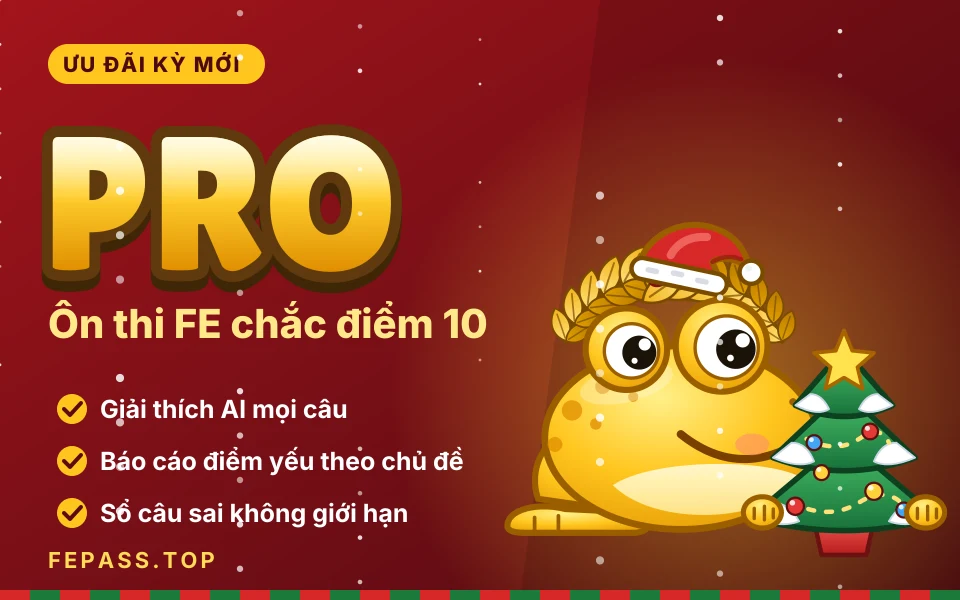
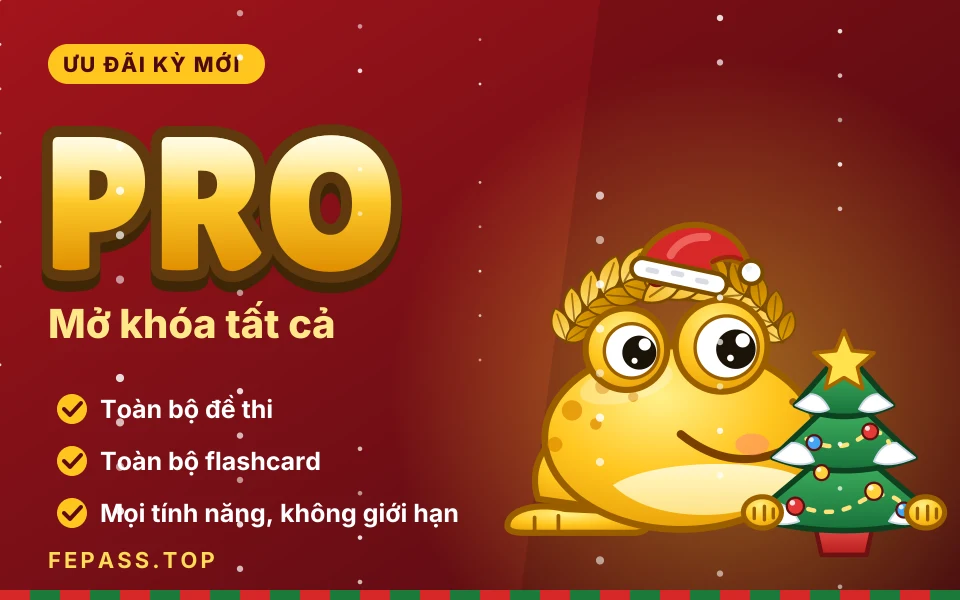
feat: update Pro poster copy to unlock everything

diff --git a/backend/scripts/gen-pro-poster.ts b/backend/scripts/gen-pro-poster.ts
@@ -14,7 +14,7 @@ const OUT = path.resolve(__dirname, "../../frontend/public/promo/pro-poster.webp
 
 async function main() {
   const f = await loadFonts();
-  const perks = ["Giải thích AI mọi câu", "Báo cáo điểm yếu theo chủ đề", "Sổ câu sai không giới hạn"];
+  const perks = ["Toàn bộ đề thi", "Toàn bộ flashcard", "Mọi tính năng, không giới hạn"];
   const ms = 3.4;
   const mx = W - MASCOT_W * ms - 14;
   const my = H - MASCOT_H * ms - 40;
@@ -37,7 +37,7 @@ async function main() {
   <rect x="48" y="44" width="${22 + pill.length * 15}" height="40" rx="20" fill="${COLOR.gold500}"/>
   <path d="${textD(f.extrabold, pill, 21, 48 + 15, 72, { spacing: 0.08 })}" fill="#4d0a10"/>
   ${wordmark(f.logo, "PRO", 190, 44, 270)}
-  <path d="${textD(f.extrabold, "Ôn thi FE chắc điểm 10", 40, 48, 338)}" fill="${COLOR.gold200}"/>
+  <path d="${textD(f.extrabold, "Mở khóa tất cả", 40, 48, 338)}" fill="${COLOR.gold200}"/>
   ${rows}
   <path d="${textD(f.bold, "FEPASS.TOP", 22, 48, 568, { spacing: 0.14 })}" fill="${COLOR.gold300}"/>
   <g transform="translate(${mx} ${my}) scale(${ms})">${mascotArt(f)}</g>

diff --git a/frontend/src/features/landing/components/LandingNoticePopup.tsx b/frontend/src/features/landing/components/LandingNoticePopup.tsx
@@ -30,7 +30,7 @@ export function LandingNoticePopup() {
   return (
     <Modal onClose={close} maxWidth="max-w-lg" flush corner={<div aria-hidden className="pointer-events-none absolute -right-3 -top-14 w-20 drop-shadow-lg sm:-right-4 sm:w-24 [&>svg]:h-auto [&>svg]:w-full" dangerouslySetInnerHTML={{ __html: MASCOT_XMAS_SVG }} />}>
       <div className="relative">
-        <img src="/promo/pro-poster.webp" width={960} height={600} alt="Poster gói PRO của FEPass: giải thích AI mọi câu, báo cáo điểm yếu, sổ câu sai không giới hạn" className="block w-full" />
+        <img src="/promo/pro-poster.webp" width={960} height={600} alt="Poster gói PRO của FEPass: mở khóa tất cả đề thi, flashcard và mọi tính năng, không giới hạn" className="block w-full" />
       </div>
       <div className="p-5 sm:p-6">
         <h2 className="md-headline-small text-on-surface">
